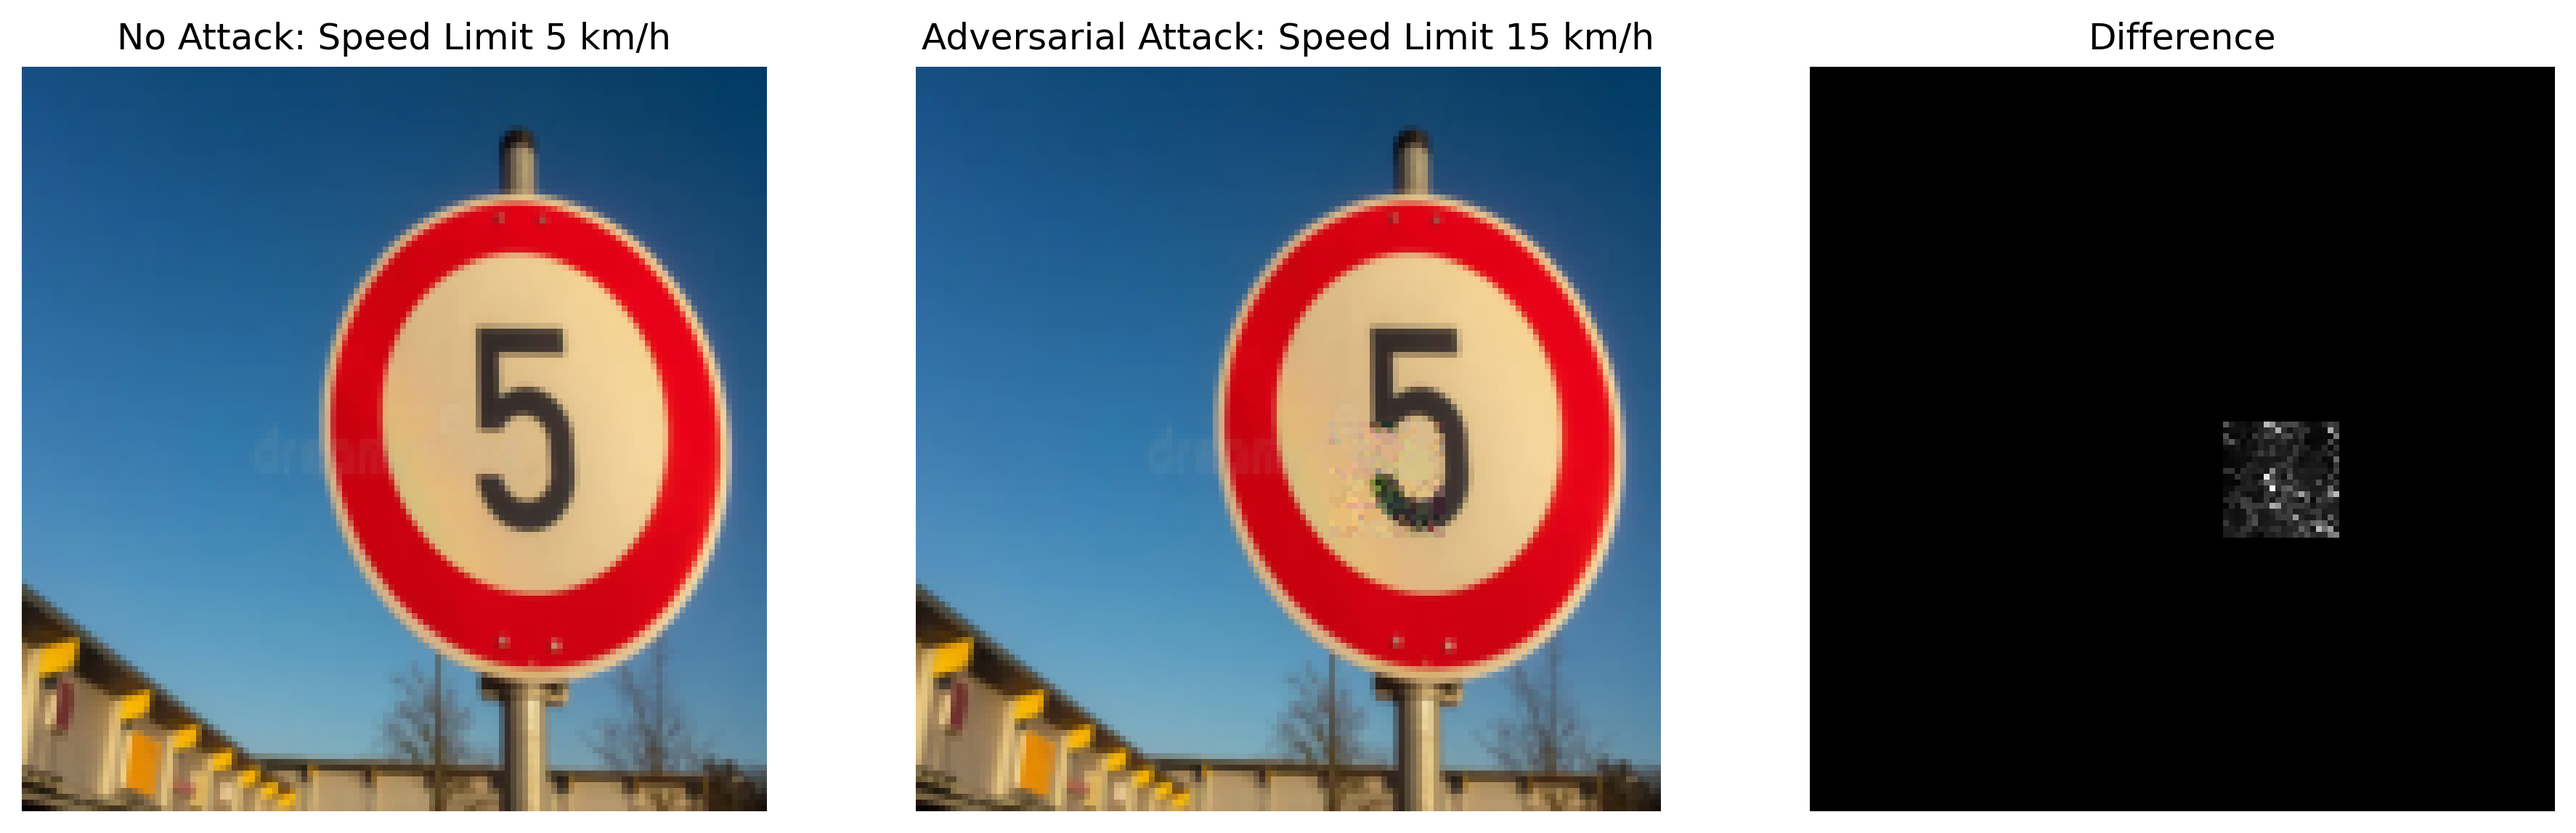
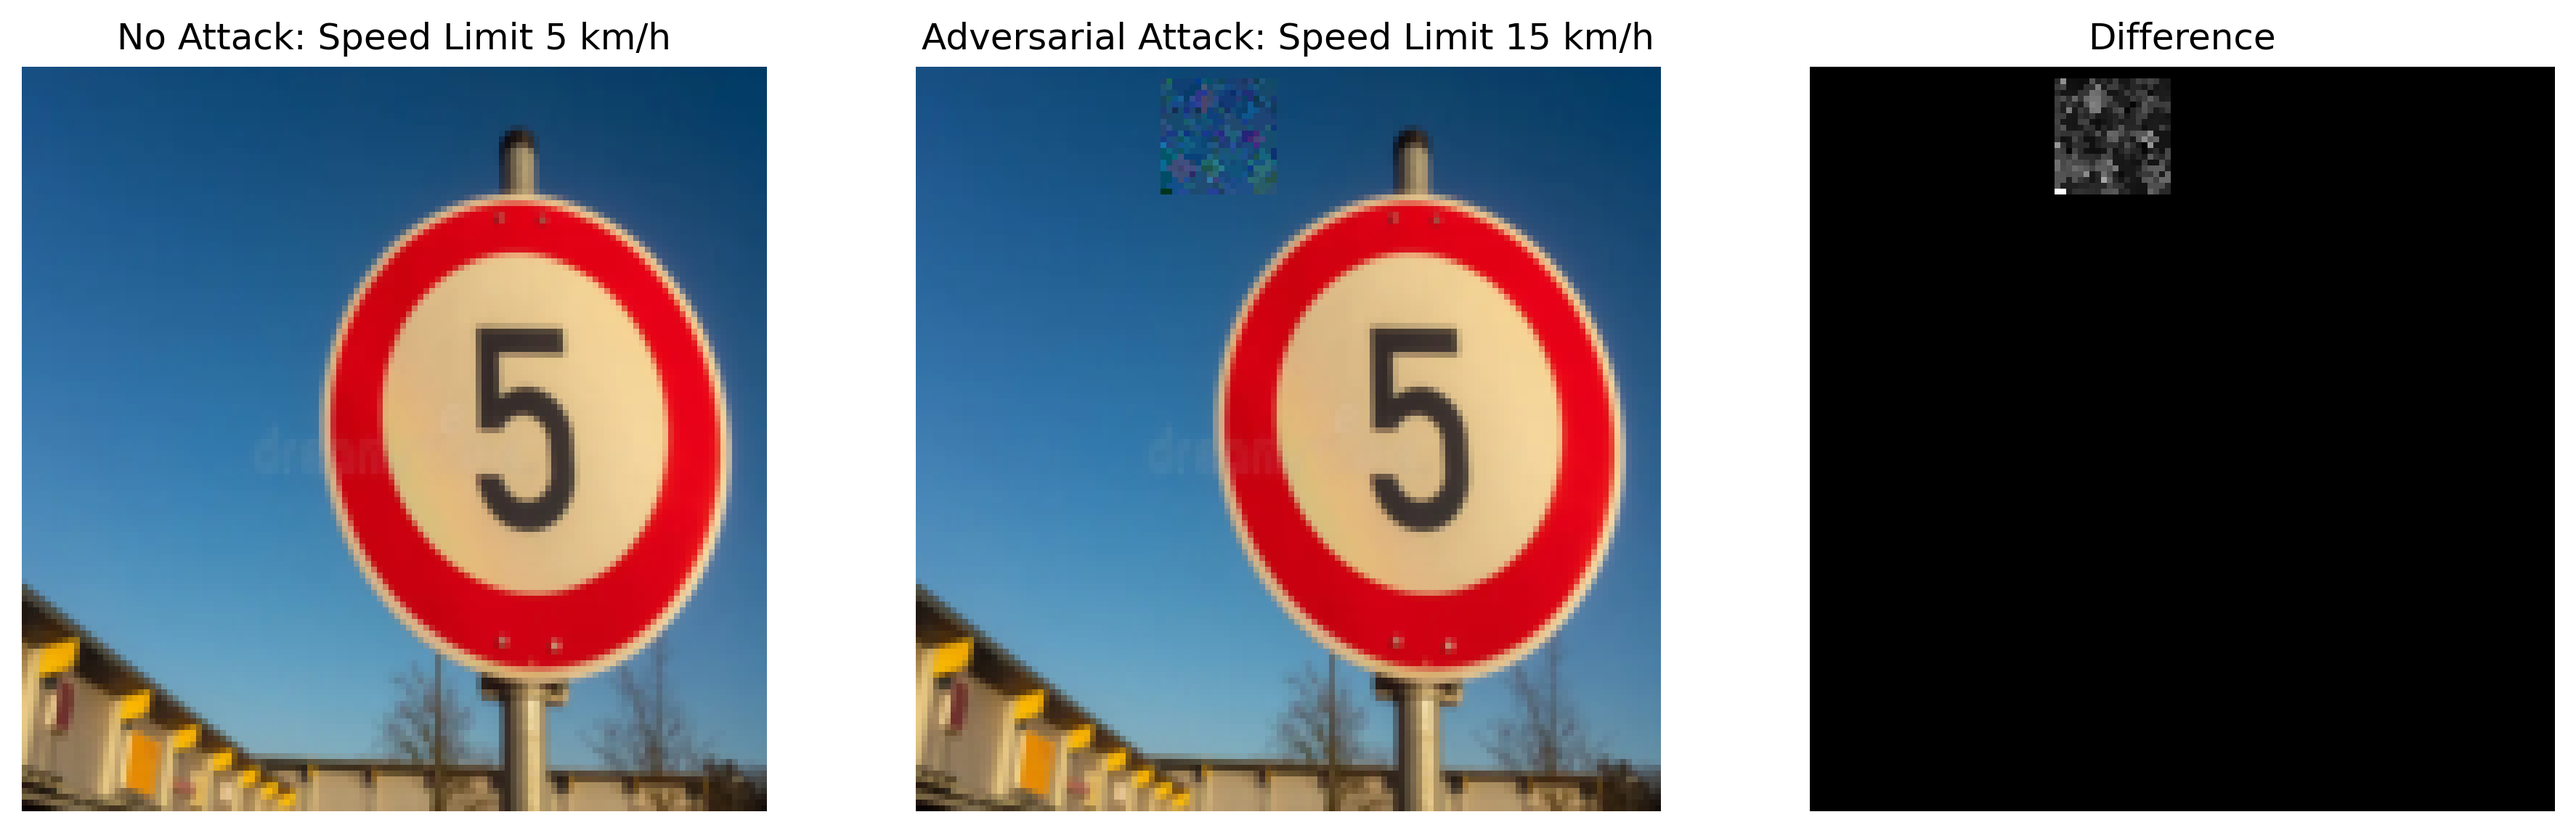
add seed into run ex

diff --git a/src/attack.py b/src/attack.py
@@ -30,6 +30,8 @@ class Attack_idealW:
         x = self.params["x"]
         c, h, w = self.params["c"], self.params["h"], self.params["w"]
         s = self.params["s"] 
+        seed = self.params['seed']
+        np.random.seed(seed)
 
         # initialize
         patch_geno = np.random.rand(self.params["N"], 7)
@@ -49,7 +51,7 @@ class Attack_idealW:
         for it in tqdm(range(1, n_queries)):
             patch_counter += 1
             if patch_counter < update_loc_period:
-                patch_new_geno = mutate(patch_geno, self.params["mut"])
+                patch_new_geno = mutate(patch_geno, self.params["mut"],seed)
                 patch_new = render(patch_new_geno, s)
                 x_adv_new = x.copy()
                 x_adv_new[loc[0]: loc[0] + s, loc[1]: loc[1] + s, :] = patch_new
@@ -85,7 +87,7 @@ class Attack_idealW:
                 # location update
                 sh_i = int(max(sh_selection(n_queries, it) * h, 0))
                 loc_new = loc.copy()
-                loc_new = update_location(loc_new, sh_i, h, s)
+                loc_new = update_location(loc_new, sh_i, h, s, seed)
                 x_adv_new = x.copy()
                 x_adv_new[loc_new[0]: loc_new[0] + s, loc_new[1]: loc_new[1] + s, :] = patch
                 x_adv_new = np.clip(x_adv_new, 0., 1.)
@@ -133,6 +135,8 @@ class Attack_realW(Attack_idealW):
         x = self.params["x"]
         c, h, w = self.params["c"], self.params["h"], self.params["w"]
         s = self.params["s"] 
+        seed = self.params['seed']
+        np.random.seed(seed)
 
         # initialize
         patch_geno = np.random.rand(self.params["N"], 7)
@@ -152,7 +156,7 @@ class Attack_realW(Attack_idealW):
         for it in tqdm(range(1, n_queries)):
             patch_counter += 1
             if patch_counter < update_loc_period:
-                patch_new_geno = mutate(patch_geno, self.params["mut"])
+                patch_new_geno = mutate(patch_geno, self.params["mut"], seed)
                 patch_new = render(patch_new_geno, s)
                 x_adv_new = x.copy()
                 x_adv_new[loc[0]: loc[0] + s, loc[1]: loc[1] + s, :] = patch_new
@@ -196,7 +200,7 @@ class Attack_realW(Attack_idealW):
                 # location update
                 sh_i = int(max(sh_selection(n_queries, it) * h, 0))
                 loc_new = loc.copy()
-                loc_new = update_location(loc_new, sh_i, h, s)
+                loc_new = update_location(loc_new, sh_i, h, s, seed)
                 x_adv_new = x.copy()
                 x_adv_new[loc_new[0]: loc_new[0] + s, loc_new[1]: loc_new[1] + s, :] = patch
                 x_adv_new = np.clip(x_adv_new, 0., 1.)

diff --git a/run_experiment.py b/run_experiment.py
@@ -17,6 +17,8 @@ if __name__ == "__main__":
     parser.add_argument("--s", type=int, default=20)
     parser.add_argument("--queries", type=int, default=10000)
     parser.add_argument("--li", type=int, default=4)
+    parser.add_argument("--seed", type=int, default=42)
+    parser.add_argument("--nb_example", type=int, default=100)
     parser.add_argument("--data_dicrectory", type=str, default="data/TEST", help="Image File directory")
     parser.add_argument("--save_directory", type=str,default="log/idealW", help="Where to store the .npy files with the results")
     args = parser.parse_args()
@@ -43,12 +45,17 @@ if __name__ == "__main__":
     print("Số lượng ảnh:", len(X))
     print("Shape ảnh:", X[0].shape)
     print("Nhãn:", set(y))
+
+    count = 0
     for it, (x, label) in enumerate(zip(X, y)):
+        if count > args.nb_example: 
+            break
         # Remove false prediction 
         val, ind = model.predict_maxprob(x[None,:]) 
         if ind != label : 
             print(ind, label)
             continue
+        count += 1
 
 
         x = pytorch_switch(x).detach().numpy()
@@ -63,7 +70,8 @@ if __name__ == "__main__":
             "N": args.N,
             "update_loc_period": args.li,
             "mut": args.mut,
-            "temp": args.temp
+            "temp": args.temp,
+            "seed": args.seed,
         }
         if mode == "idealW": 
             attack = Attack_idealW(params,it)

diff --git a/src/utils.py b/src/utils.py
@@ -40,7 +40,8 @@ def sh_selection(n_queries, iter):
     return t
 
 
-def update_location(loc_new, h_i, h, s):
+def update_location(loc_new, h_i, h, s, seed):
+    np.random.seed(seed)
     loc_new += np.random.randint(low=-h_i, high=h_i + 1, size=(2,))
     loc_new = np.clip(loc_new, 0, h - s)
     return loc_new
@@ -64,7 +65,7 @@ def render(x, w):
     return phenotype/255.
 
 
-def mutate(soln, mut):
+def mutate(soln, mut, seed):
     """Mutates specie for evolution.
 
     Args:
@@ -74,6 +75,7 @@ def mutate(soln, mut):
         New Specie class, that has been mutated.
         :param soln:
     """
+    np.random.seed(seed)
     new_specie = soln.copy()
 
     # Randomization for Evolution
